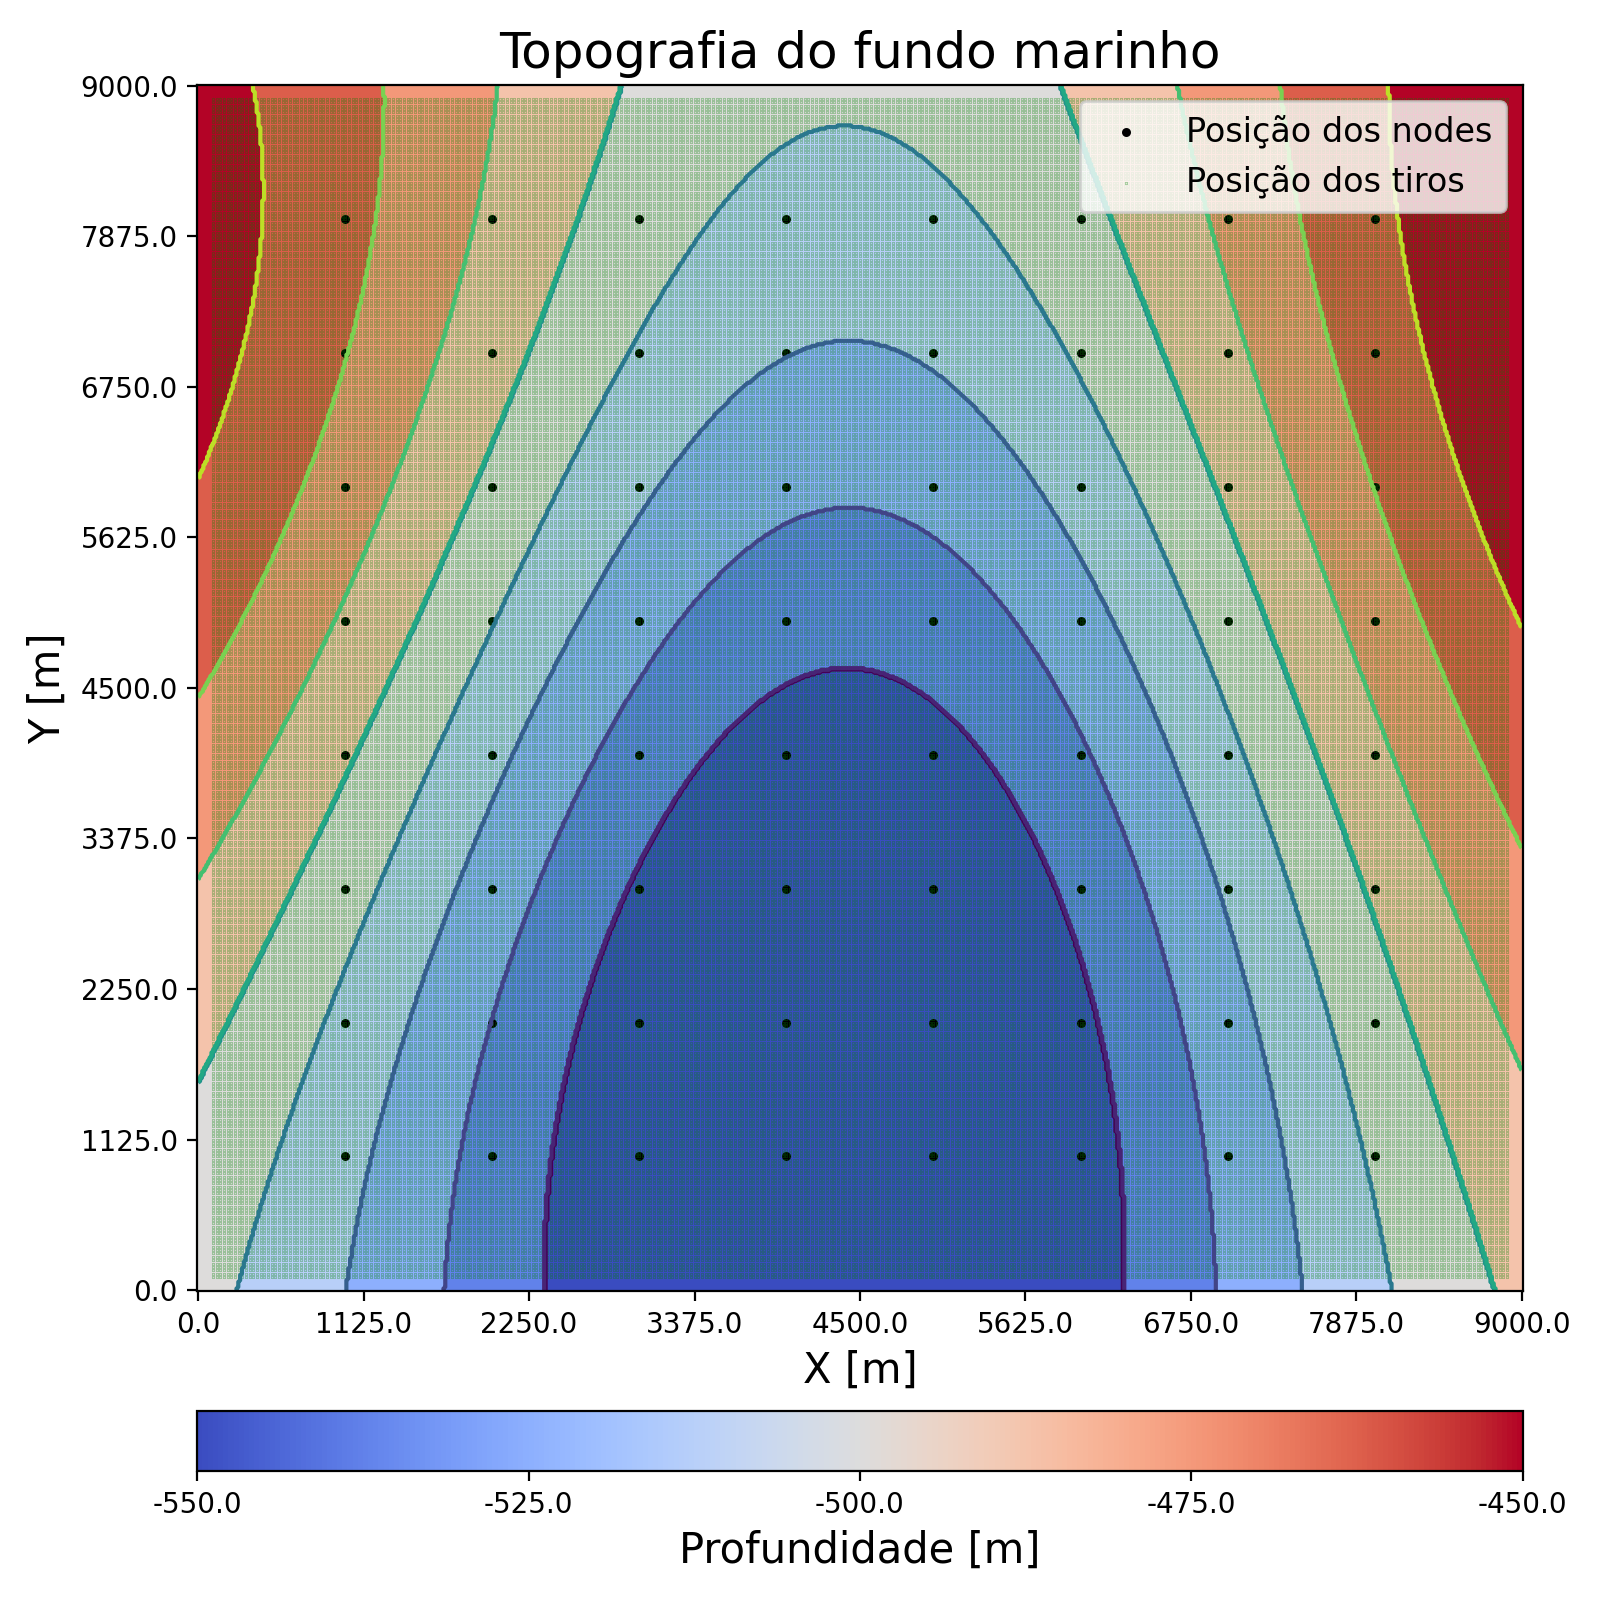
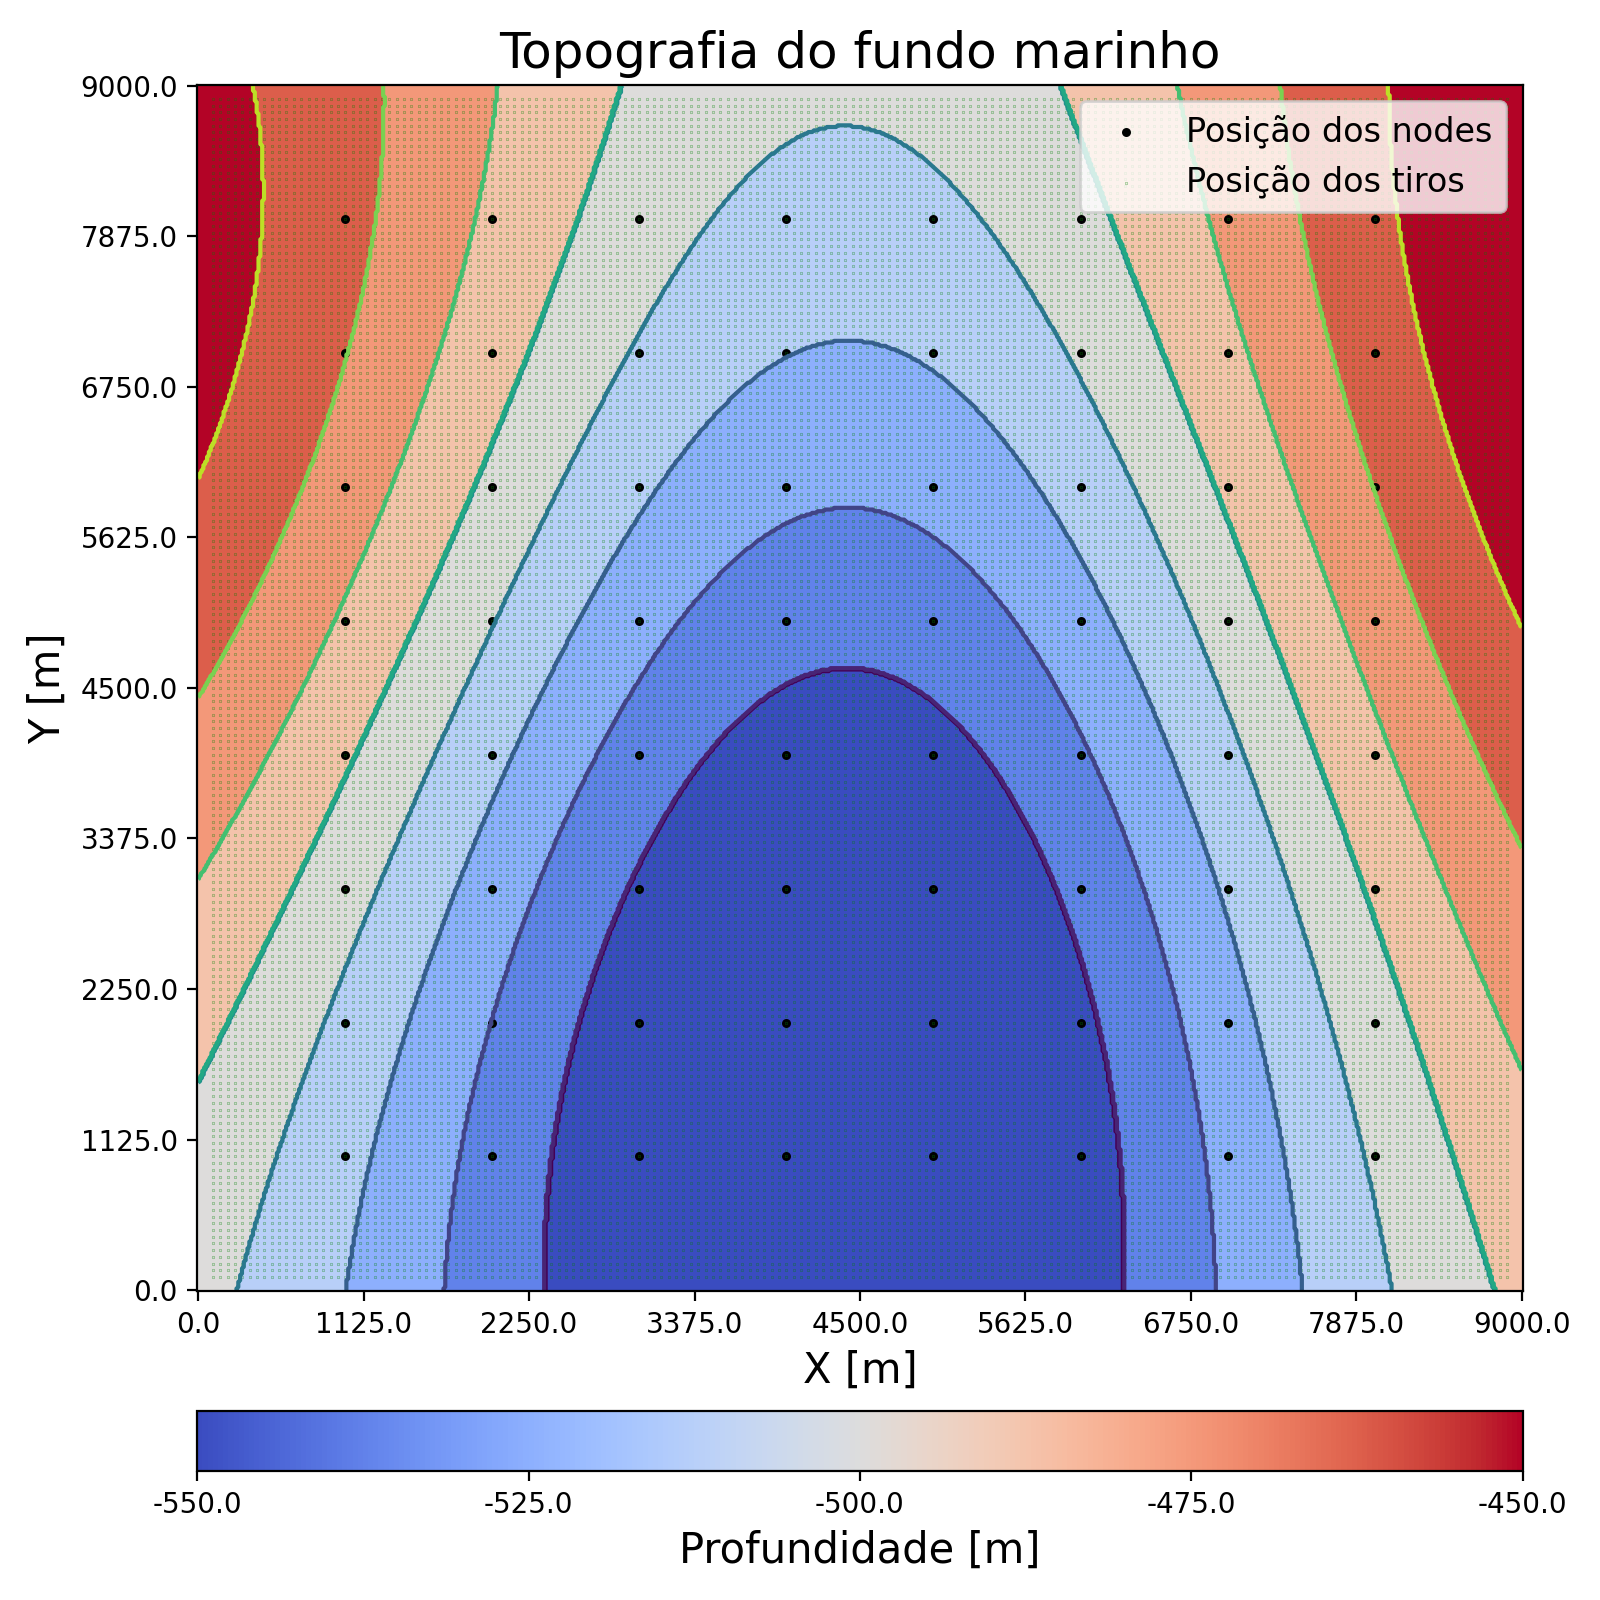
computing modeling time for one shot

Changed region(s): [[0.125, 0.0625, 0.9375, 0.8125]]

diff --git a/main/modeling/acoustic_main.cpp b/main/modeling/acoustic_main.cpp
@@ -61,6 +61,9 @@ int main (int argc, char**argv)
     geometry.shots.n_xline = std::stoi(utils.catchParameter("xShotNumber", parameters));
     geometry.shots.n_yline = std::stoi(utils.catchParameter("yShotNumber", parameters));
     
+    bool shotsTopography = utils.str2bool(utils.catchParameter("shotsTopography", parameters));
+    bool nodesTopography = utils.str2bool(utils.catchParameter("nodesTopography", parameters));
+
     std::vector<std::string> splitted;
 
     // Setting grid shots
@@ -75,6 +78,12 @@ int main (int argc, char**argv)
     geometry.set_SE(std::stof(splitted[0]), std::stof(splitted[1]));
 
     geometry.setGridGeometry(geometry.shots);
+
+    if (shotsTopography) 
+    {
+        std::string shotsTopographyPath = utils.catchParameter("shotsTopographyPath", parameters);
+        geometry.shots.z = utils.readBinaryFloat(shotsTopographyPath, geometry.shots.all);
+    }
 
     // Setting grid nodes
 
@@ -91,6 +100,12 @@ int main (int argc, char**argv)
     geometry.set_SE(std::stof(splitted[0]), std::stof(splitted[1]));
 
     geometry.setGridGeometry(geometry.nodes);
+
+    if (nodesTopography) 
+    {
+        std::string nodesTopographyPath = utils.catchParameter("nodesTopographyPath", parameters);
+        geometry.nodes.z = utils.readBinaryFloat(nodesTopographyPath, geometry.nodes.all);
+    }
 
     if (geometry.saveGeometry) 
         geometry.exportPositions();
@@ -127,9 +142,17 @@ int main (int argc, char**argv)
 
     float * seismogram = new float[nt * geometry.nodes.all]();
 
-    // Shots loop
-
-    for (int shotId = 0; shotId < geometry.shots.all; shotId++)
+    // std::cout<<nt<<std::endl;    
+    // std::cout<<model.nb<<std::endl;    
+    // std::cout<<model.nb*model.nb<<std::endl;    
+    // std::cout<<model.nb*model.nb*model.nb<<std::endl;    
+    // std::cout<<model.nPointsB<<std::endl;    
+    // std::cout<<model.nPointsB<<std::endl;    
+    // std::cout<<model.nPointsB<<std::endl;    
+    // std::cout<<model.nPointsB<<std::endl;    
+    // std::cout<<nt*geometry.nodes.all<<std::endl;    
+    
+    for (int shotId = 0; shotId < 1; shotId++)
     {
         float sx = geometry.shots.x[shotId];
         float sy = geometry.shots.y[shotId];

diff --git a/main/analysis/2_experiment_config.py b/main/analysis/2_experiment_config.py
@@ -56,14 +56,14 @@ for i in range(node_yline):
     for j in range(node_xline):
         node_z[i + node_yline*j] = dz*waterBottom[int(node_y[i]/dy),int(node_x[j]/dx)]
 
-node_z.astype("float32", order = "F").tofile(f"../../outputs/geometry/nodesTopography_{node_all}.bin")
+node_z.astype("float32", order = "F").tofile(f"../../inputs/geometry/nodesTopography_{node_all}.bin")
 
 node_x, node_y = np.meshgrid(node_x, node_y)
 node_x = np.reshape(node_x, [node_all])
 node_y = np.reshape(node_y, [node_all])
 
-shot_xline = 353
-shot_yline = 353
+shot_xline = 177
+shot_yline = 177
 shot_all = shot_xline * shot_yline
 
 shot_x = np.linspace(100, 8900, shot_xline)
